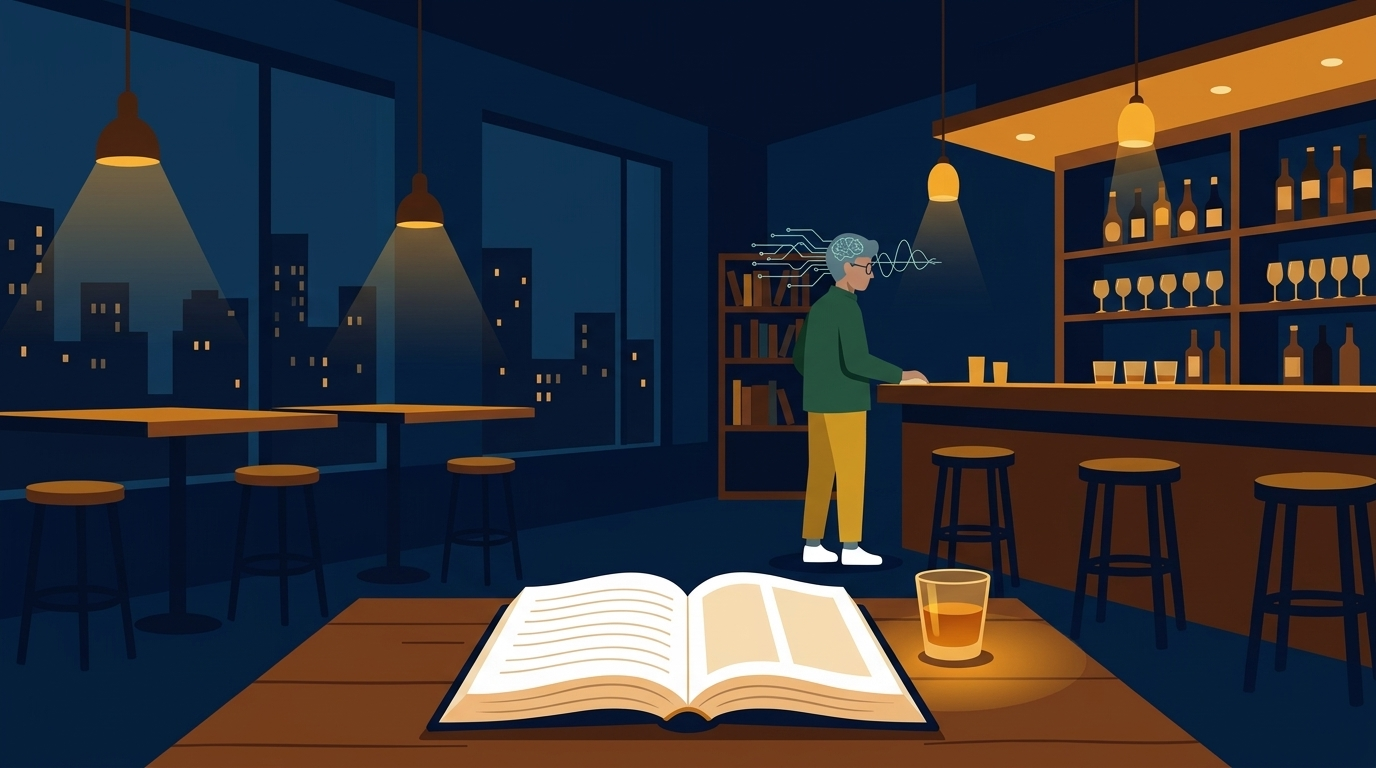
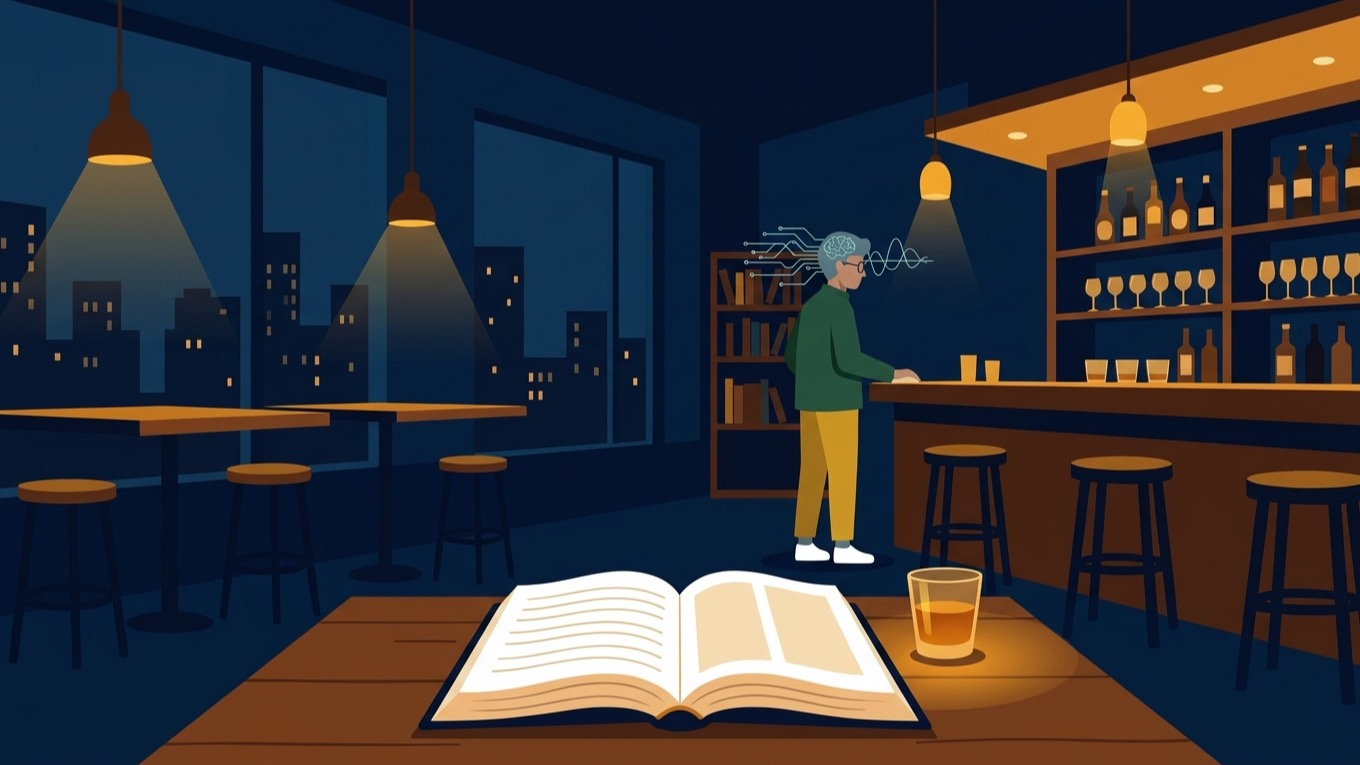
見出し画像の16:9原画を厳密な16:9（1360×765）に切り詰める

diff --git a/books/uchi-no-mise/build/report.md b/books/uchi-no-mise/build/report.md
@@ -65,7 +65,7 @@
 - **手本**：`books/_style/flat-character/` に6枚（note の公開記事の見出し画像、元の大きさ）。選んだ記事URLは `books/_style/README.md`。「肘掛け椅子でラジオ」「4コマ」は公開記事に見つからず、近い題材（椅子の人物・バーのカウンター）で代えた。
 - **鍵**：`~/AntiGravity/AgendaVisito/visito-eval/.env` の `GEMINI_API_KEY`（先頭4文字 `AIza`）。`tamuro_reservation/.env.local`・`AgendaQA/.env.local` の鍵も一覧取得は通ったが、本番に近い製品の枠を使わないよう、評価用のものを選んだ。AgendaLibro の `secrets/.env` に写した（元のファイルは未変更）。
 - **モデル**：`gemini-nano-banana-2.1`（Nano Banana 2.1。一覧にあった画像生成モデル 8 つのうち最新）。手本6枚を毎回付けて 16:9 で生成。
-- **保存**：`books/uchi-no-mise/note-headers/16x9/`（8枚）、中央を 1280×670 に切り出して `note-headers/note/`（8枚）。作り直し前の2枚は `16x9/_retake/`。
+- **保存**：`books/uchi-no-mise/note-headers/16x9/`（8枚。モデルの出力 1376×768 を、厳密な 16:9 にするため中央 1360×765 に切り詰めた）、中央を 1280×670 に切り出して `note-headers/note/`（8枚）。作り直し前の2枚は `16x9/_retake/`。
 - **各画像の題材**：はじめに＝東中野の小さなバーのカウンター（グラスを拭く）／第1章＝スマホのAIに話しかける客と店主／第2章＝画面を点検する人物／第3章＝色違いの手帳が並ぶ棚と人物／第4章＝4枚の画面が並ぶ机の人物／第5章＝夜の店の灯りと開いた本／おわりに＝灯りのついた店の入口／マガジン＝カウンター・手帳・本をまとめた絵。
 - **作り直し**：はじめに（最初の絵は茶・橙が主で紺が弱かったため、色の指示を足して作り直し）、第2章（OCR が画面の行を文字と検出したため）、マガジン（同）の3回。いずれも1回まで。
 - **画像内の文字**：Apple Vision の OCR（`scripts/ocr.swift`）で、投稿する 1280×670 の8枚はすべて検出0。16:9 の原画のうち第2章だけ、椅子の回路線を「-a」「50」と誤検出（目視で文字なしを確認）。
